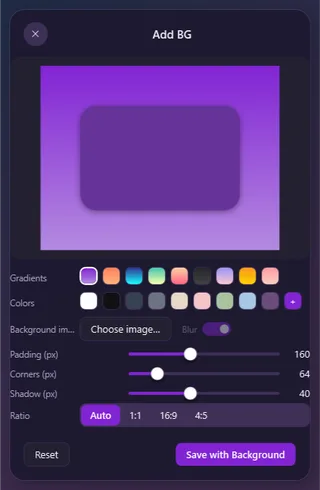
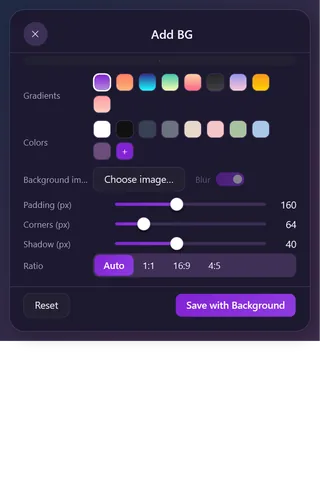
site(2.4.1): replace screenshots with 2.4.1 captures
Import the 2.4.1 self-test captures as the site's EN tool images (26 slugs x dark/light x full+320w), add the approved settings pair, rebuild the wheel posters from the Convert still, and drop every 2.4.0 capture or orphan (10 tool clips, 2 poster-360 variants, og-ar.png, 2 unreferenced icon PNGs). Wire the 21 placeholder tool cards to the new images and remove the dead Play-motion buttons left by the deleted 2.4.0 clips.

diff --git a/docs/site/index.html b/docs/site/index.html
@@ -297,8 +297,11 @@
 
         <div class="tools-grid" id="tools-grid">
           <article class="tool-card" id="tool-compress" data-tool="compress" data-reveal data-cat="files">
-            <div class="tool-media tool-media--abstract tool-media--files">
-              <div class="tool-pending"><span class="tool-pending__window" aria-hidden="true"><span class="tool-pending__bar"></span></span><p class="tool-pending__label"><span data-lang="en">Capture pending</span><span data-lang="ar" lang="ar">اللقطة قادمة</span></p><p class="tool-pending__note"><span data-lang="en">This window has no verified capture yet. The app's self-test renders it next; no mock-up is shown in the meantime.</span><span data-lang="ar" lang="ar">لا توجد لقطة موثّقة لهذه النافذة بعد. يلتقطها اختبار التطبيق الذاتي لاحقًا، ولا تُعرض أي صورة وهمية في الأثناء.</span></p></div>
+            <div class="tool-media">
+              <img class="tool-shot" src="assets/tools/compress-dark.webp" data-dark="assets/tools/compress-dark.webp" data-light="assets/tools/compress-light.webp" width="690" height="872" loading="lazy" decoding="async"
+                   alt="Compress window: an image file with the format row, target size and a quality slider, and the estimated output size."
+                   data-alt-en="Compress window: an image file with the format row, target size and a quality slider, and the estimated output size."
+                   data-alt-ar="نافذة الضغط: ملف صورة مع صف الصيغة والحجم المستهدف وشريط الجودة، والحجم التقديري للناتج.">
             </div>
             <div class="tool-body">
               <div class="tool-kicker"><span data-lang="en">Files</span><span data-lang="ar" lang="ar">الملفات</span><span class="tool-num">01</span></div>
@@ -310,8 +313,11 @@
           </article>
 
           <article class="tool-card" id="tool-metadata" data-tool="metadata" data-reveal data-cat="files">
-            <div class="tool-media tool-media--abstract tool-media--files">
-              <div class="tool-pending"><span class="tool-pending__window" aria-hidden="true"><span class="tool-pending__bar"></span></span><p class="tool-pending__label"><span data-lang="en">Capture pending</span><span data-lang="ar" lang="ar">اللقطة قادمة</span></p><p class="tool-pending__note"><span data-lang="en">This window has no verified capture yet. The app's self-test renders it next; no mock-up is shown in the meantime.</span><span data-lang="ar" lang="ar">لا توجد لقطة موثّقة لهذه النافذة بعد. يلتقطها اختبار التطبيق الذاتي لاحقًا، ولا تُعرض أي صورة وهمية في الأثناء.</span></p></div>
+            <div class="tool-media">
+              <img class="tool-shot" src="assets/tools/metadata-dark.webp" data-dark="assets/tools/metadata-dark.webp" data-light="assets/tools/metadata-light.webp" width="804" height="989" loading="lazy" decoding="async"
+                   alt="Edit metadata window: camera and location fields, each with its own remove button, above Remove All."
+                   data-alt-en="Edit metadata window: camera and location fields, each with its own remove button, above Remove All."
+                   data-alt-ar="نافذة تعديل البيانات الوصفية: حقلا الكاميرا والموقع، لكل منهما زر إزالة، فوق زر إزالة الكل.">
             </div>
             <div class="tool-body">
               <div class="tool-kicker"><span data-lang="en">Files</span><span data-lang="ar" lang="ar">الملفات</span><span class="tool-num">02</span></div>
@@ -323,8 +329,11 @@
           </article>
 
           <article class="tool-card" id="tool-qr" data-tool="qr" data-reveal data-cat="files">
-            <div class="tool-media tool-media--abstract tool-media--files">
-              <div class="tool-pending"><span class="tool-pending__window" aria-hidden="true"><span class="tool-pending__bar"></span></span><p class="tool-pending__label"><span data-lang="en">Capture pending</span><span data-lang="ar" lang="ar">اللقطة قادمة</span></p><p class="tool-pending__note"><span data-lang="en">This window has no verified capture yet. The app's self-test renders it next; no mock-up is shown in the meantime.</span><span data-lang="ar" lang="ar">لا توجد لقطة موثّقة لهذه النافذة بعد. يلتقطها اختبار التطبيق الذاتي لاحقًا، ولا تُعرض أي صورة وهمية في الأثناء.</span></p></div>
+            <div class="tool-media">
+              <img class="tool-shot" src="assets/tools/qr-dark.webp" data-dark="assets/tools/qr-dark.webp" data-light="assets/tools/qr-light.webp" width="804" height="761" loading="lazy" decoding="async"
+                   alt="Read QR code window: the opened image on a card, the result line under it and the Copy and Close action."
+                   data-alt-en="Read QR code window: the opened image on a card, the result line under it and the Copy and Close action."
+                   data-alt-ar="نافذة قراءة رمز QR: الصورة المفتوحة على بطاقة وسطر النتيجة تحتها وإجراء النسخ والإغلاق.">
             </div>
             <div class="tool-body">
               <div class="tool-kicker"><span data-lang="en">Files</span><span data-lang="ar" lang="ar">الملفات</span><span class="tool-num">03</span></div>
@@ -341,10 +350,6 @@
                    alt="Edit tool window: a photo preview above tabs and light, colour and grain sliders."
                    data-alt-en="Edit tool window: a photo preview above tabs and light, colour and grain sliders."
                    data-alt-ar="نافذة أداة التعديل: معاينة صورة فوق تبويبات وأشرطة للضوء واللون والحبيبات.">
-              <button type="button" class="tool-play" aria-describedby="tool-editphotos-title" data-clip-dark="assets/tools/editphotos-dark-clip.webp" data-clip-light="assets/tools/editphotos-light-clip.webp" data-poster-dark="assets/tools/editphotos-dark.webp" data-poster-light="assets/tools/editphotos-light.webp" aria-pressed="false" aria-label="Play motion" data-label-en="Play motion" data-label-ar="تشغيل الحركة">
-                <svg class="icon" width="14" height="14" aria-hidden="true"><use href="#i-play"/></svg>
-                <span class="tool-play__text" data-en="Motion" data-ar="حركة"></span>
-              </button>
             </div>
             <div class="tool-body">
               <div class="tool-kicker"><span data-lang="en">Photos</span><span data-lang="ar" lang="ar">الصور</span><span class="tool-num">04</span></div>
@@ -361,10 +366,6 @@
                    alt="Annotate tool window: a photo with drawn arrows and shapes, tool pills, colours and stroke sizes."
                    data-alt-en="Annotate tool window: a photo with drawn arrows and shapes, tool pills, colours and stroke sizes."
                    data-alt-ar="نافذة أداة التعليقات: صورة بأسهم وأشكال مرسومة، وشرائح أدوات، وألوان وسماكات.">
-              <button type="button" class="tool-play" aria-describedby="tool-annotate-title" data-clip-dark="assets/tools/annotate-dark-clip.webp" data-clip-light="assets/tools/annotate-light-clip.webp" data-poster-dark="assets/tools/annotate-dark.webp" data-poster-light="assets/tools/annotate-light.webp" aria-pressed="false" aria-label="Play motion" data-label-en="Play motion" data-label-ar="تشغيل الحركة">
-                <svg class="icon" width="14" height="14" aria-hidden="true"><use href="#i-play"/></svg>
-                <span class="tool-play__text" data-en="Motion" data-ar="حركة"></span>
-              </button>
             </div>
             <div class="tool-body">
               <div class="tool-kicker"><span data-lang="en">Photos</span><span data-lang="ar" lang="ar">الصور</span><span class="tool-num">05</span></div>
@@ -381,10 +382,6 @@
                    alt="Add BG tool window: a photo on a gradient background with padding, corners, shadow and ratio controls."
                    data-alt-en="Add BG tool window: a photo on a gradient background with padding, corners, shadow and ratio controls."
                    data-alt-ar="نافذة أداة الخلفية: صورة على خلفية متدرّجة مع حشوة وزوايا وظل وعناصر نسب.">
-              <button type="button" class="tool-play" aria-describedby="tool-addbackground-title" data-clip-dark="assets/tools/addbackground-dark-clip.webp" data-clip-light="assets/tools/addbackground-light-clip.webp" data-poster-dark="assets/tools/addbackground-dark.webp" data-poster-light="assets/tools/addbackground-light.webp" aria-pressed="false" aria-label="Play motion" data-label-en="Play motion" data-label-ar="تشغيل الحركة">
-                <svg class="icon" width="14" height="14" aria-hidden="true"><use href="#i-play"/></svg>
-                <span class="tool-play__text" data-en="Motion" data-ar="حركة"></span>
-              </button>
             </div>
             <div class="tool-body">
               <div class="tool-kicker"><span data-lang="en">Photos</span><span data-lang="ar" lang="ar">الصور</span><span class="tool-num">06</span></div>
@@ -401,10 +398,6 @@
                    alt="Crop tool window: a crop rectangle over a photo, ratio chips and width and height boxes."
                    data-alt-en="Crop tool window: a crop rectangle over a photo, ratio chips and width and height boxes."
                    data-alt-ar="نافذة أداة قصّ الصورة: مستطيل قصّ فوق صورة، وشرائح نسب، ومربعا العرض والارتفاع.">
-              <button type="button" class="tool-play" aria-describedby="tool-crop-title" data-clip-dark="assets/tools/crop-dark-clip.webp" data-clip-light="assets/tools/crop-light-clip.webp" data-poster-dark="assets/tools/crop-dark.webp" data-poster-light="assets/tools/crop-light.webp" aria-pressed="false" aria-label="Play motion" data-label-en="Play motion" data-label-ar="تشغيل الحركة">
-                <svg class="icon" width="14" height="14" aria-hidden="true"><use href="#i-play"/></svg>
-                <span class="tool-play__text" data-en="Motion" data-ar="حركة"></span>
-              </button>
             </div>
             <div class="tool-body">
               <div class="tool-kicker"><span data-lang="en">Photos</span><span data-lang="ar" lang="ar">الصور</span><span class="tool-num">07</span></div>
@@ -421,10 +414,6 @@
                    alt="Redact tool window: a photo with solid redaction boxes and the solid, blur and pixelate mode chips."
                    data-alt-en="Redact tool window: a photo with solid redaction boxes and the solid, blur and pixelate mode chips."
                    data-alt-ar="نافذة أداة الحجب: صورة بمربعات حجب صلبة وشرائح الأنماط: صلب وتمويه وبكسلة.">
-              <button type="button" class="tool-play" aria-describedby="tool-redact-title" data-clip-dark="assets/tools/redact-dark-clip.webp" data-clip-light="assets/tools/redact-light-clip.webp" data-poster-dark="assets/tools/redact-dark.webp" data-poster-light="assets/tools/redact-light.webp" aria-pressed="false" aria-label="Play motion" data-label-en="Play motion" data-label-ar="تشغيل الحركة">
-                <svg class="icon" width="14" height="14" aria-hidden="true"><use href="#i-play"/></svg>
-                <span class="tool-play__text" data-en="Motion" data-ar="حركة"></span>
-              </button>
             </div>
             <div class="tool-body">
               <div class="tool-kicker"><span data-lang="en">Photos</span><span data-lang="ar" lang="ar">الصور</span><span class="tool-num">08</span></div>
@@ -436,8 +425,11 @@
           </article>
 
           <article class="tool-card" id="tool-collage" data-tool="collage" data-reveal data-cat="photos">
-            <div class="tool-media tool-media--abstract tool-media--photos">
-              <div class="tool-pending"><span class="tool-pending__window" aria-hidden="true"><span class="tool-pending__bar"></span></span><p class="tool-pending__label"><span data-lang="en">Capture pending</span><span data-lang="ar" lang="ar">اللقطة قادمة</span></p><p class="tool-pending__note"><span data-lang="en">This window has no verified capture yet. The app's self-test renders it next; no mock-up is shown in the meantime.</span><span data-lang="ar" lang="ar">لا توجد لقطة موثّقة لهذه النافذة بعد. يلتقطها اختبار التطبيق الذاتي لاحقًا، ولا تُعرض أي صورة وهمية في الأثناء.</span></p></div>
+            <div class="tool-media">
+              <img class="tool-shot" src="assets/tools/collage-dark.webp" data-dark="assets/tools/collage-dark.webp" data-light="assets/tools/collage-light.webp" width="575" height="971" loading="lazy" decoding="async"
+                   alt="Collage window: two photos in a layout preview beside layout, cells, gap, radius and background controls."
+                   data-alt-en="Collage window: two photos in a layout preview beside layout, cells, gap, radius and background controls."
+                   data-alt-ar="نافذة التجميع: صورتان في معاينة تخطيط إلى جانب عناصر التخطيط والخلايا والفراغ والزوايا والخلفية.">
             </div>
             <div class="tool-body">
               <div class="tool-kicker"><span data-lang="en">Photos</span><span data-lang="ar" lang="ar">الصور</span><span class="tool-num">09</span></div>
@@ -449,8 +441,11 @@
           </article>
 
           <article class="tool-card" id="tool-videotrim" data-tool="videotrim" data-reveal data-cat="video">
-            <div class="tool-media tool-media--abstract tool-media--video">
-              <div class="tool-pending"><span class="tool-pending__window" aria-hidden="true"><span class="tool-pending__bar"></span></span><p class="tool-pending__label"><span data-lang="en">Capture pending</span><span data-lang="ar" lang="ar">اللقطة قادمة</span></p><p class="tool-pending__note"><span data-lang="en">This window has no verified capture yet. The app's self-test renders it next; no mock-up is shown in the meantime.</span><span data-lang="ar" lang="ar">لا توجد لقطة موثّقة لهذه النافذة بعد. يلتقطها اختبار التطبيق الذاتي لاحقًا، ولا تُعرض أي صورة وهمية في الأثناء.</span></p></div>
+            <div class="tool-media">
+              <img class="tool-shot" src="assets/tools/videotrim-dark.webp" data-dark="assets/tools/videotrim-dark.webp" data-light="assets/tools/videotrim-light.webp" width="1080" height="601" loading="lazy" decoding="async"
+                   alt="Trim video window: a timeline with start and end markers below the video preview and its filename."
+                   data-alt-en="Trim video window: a timeline with start and end markers below the video preview and its filename."
+                   data-alt-ar="نافذة اقتصاص الفيديو: خط زمني بعلامتي البداية والنهاية تحت معاينة الفيديو واسم الملف.">
             </div>
             <div class="tool-body">
               <div class="tool-kicker"><span data-lang="en">Video</span><span data-lang="ar" lang="ar">الفيديو</span><span class="tool-num">10</span></div>
@@ -462,8 +457,11 @@
           </article>
 
           <article class="tool-card" id="tool-videocrop" data-tool="videocrop" data-reveal data-cat="video">
-            <div class="tool-media tool-media--abstract tool-media--video">
-              <div class="tool-pending"><span class="tool-pending__window" aria-hidden="true"><span class="tool-pending__bar"></span></span><p class="tool-pending__label"><span data-lang="en">Capture pending</span><span data-lang="ar" lang="ar">اللقطة قادمة</span></p><p class="tool-pending__note"><span data-lang="en">This window has no verified capture yet. The app's self-test renders it next; no mock-up is shown in the meantime.</span><span data-lang="ar" lang="ar">لا توجد لقطة موثّقة لهذه النافذة بعد. يلتقطها اختبار التطبيق الذاتي لاحقًا، ولا تُعرض أي صورة وهمية في الأثناء.</span></p></div>
+            <div class="tool-media">
+              <img class="tool-shot" src="assets/tools/videocrop-dark.webp" data-dark="assets/tools/videocrop-dark.webp" data-light="assets/tools/videocrop-light.webp" width="1080" height="576" loading="lazy" decoding="async"
+                   alt="Crop video window: a crop rectangle over the video preview with ratio chips and output size boxes."
+                   data-alt-en="Crop video window: a crop rectangle over the video preview with ratio chips and output size boxes."
+                   data-alt-ar="نافذة قصّ الفيديو: مستطيل قصّ فوق معاينة الفيديو مع شرائح النسب ومربعات حجم الإخراج.">
             </div>
             <div class="tool-body">
               <div class="tool-kicker"><span data-lang="en">Video</span><span data-lang="ar" lang="ar">الفيديو</span><span class="tool-num">11</span></div>
@@ -475,8 +473,11 @@
           </article>
 
           <article class="tool-card" id="tool-videospeed" data-tool="videospeed" data-reveal data-cat="video">
-            <div class="tool-media tool-media--abstract tool-media--video">
-              <div class="tool-pending"><span class="tool-pending__window" aria-hidden="true"><span class="tool-pending__bar"></span></span><p class="tool-pending__label"><span data-lang="en">Capture pending</span><span data-lang="ar" lang="ar">اللقطة قادمة</span></p><p class="tool-pending__note"><span data-lang="en">This window has no verified capture yet. The app's self-test renders it next; no mock-up is shown in the meantime.</span><span data-lang="ar" lang="ar">لا توجد لقطة موثّقة لهذه النافذة بعد. يلتقطها اختبار التطبيق الذاتي لاحقًا، ولا تُعرض أي صورة وهمية في الأثناء.</span></p></div>
+            <div class="tool-media">
+              <img class="tool-shot" src="assets/tools/videospeed-dark.webp" data-dark="assets/tools/videospeed-dark.webp" data-light="assets/tools/videospeed-light.webp" width="1080" height="579" loading="lazy" decoding="async"
+                   alt="Change speed window: the video preview above a speed slider and the preset chips from 0.25× to 4×."
+                   data-alt-en="Change speed window: the video preview above a speed slider and the preset chips from 0.25× to 4×."
+                   data-alt-ar="نافذة تغيير السرعة: معاينة الفيديو فوق شريط السرعة وشرائح القيم من 0.25× إلى 4×.">
             </div>
             <div class="tool-body">
               <div class="tool-kicker"><span data-lang="en">Video</span><span data-lang="ar" lang="ar">الفيديو</span><span class="tool-num">12</span></div>
@@ -488,8 +489,11 @@
           </article>
 
           <article class="tool-card" id="tool-videojoin" data-tool="videojoin" data-reveal data-cat="video">
-            <div class="tool-media tool-media--abstract tool-media--video">
-              <div class="tool-pending"><span class="tool-pending__window" aria-hidden="true"><span class="tool-pending__bar"></span></span><p class="tool-pending__label"><span data-lang="en">Capture pending</span><span data-lang="ar" lang="ar">اللقطة قادمة</span></p><p class="tool-pending__note"><span data-lang="en">This window has no verified capture yet. The app's self-test renders it next; no mock-up is shown in the meantime.</span><span data-lang="ar" lang="ar">لا توجد لقطة موثّقة لهذه النافذة بعد. يلتقطها اختبار التطبيق الذاتي لاحقًا، ولا تُعرض أي صورة وهمية في الأثناء.</span></p></div>
+            <div class="tool-media">
+              <img class="tool-shot" src="assets/tools/videojoin-dark.webp" data-dark="assets/tools/videojoin-dark.webp" data-light="assets/tools/videojoin-light.webp" width="1080" height="478" loading="lazy" decoding="async"
+                   alt="Join videos window: two clip cards in a reorderable row above the Add more videos button."
+                   data-alt-en="Join videos window: two clip cards in a reorderable row above the Add more videos button."
+                   data-alt-ar="نافذة دمج الفيديو: بطاقتا مقطعين في صف قابل لإعادة الترتيب فوق زر إضافة مقاطع أخرى.">
             </div>
             <div class="tool-body">
               <div class="tool-kicker"><span data-lang="en">Video</span><span data-lang="ar" lang="ar">الفيديو</span><span class="tool-num">13</span></div>
@@ -501,8 +505,11 @@
           </article>
 
           <article class="tool-card" id="tool-videoframes" data-tool="videoframes" data-reveal data-cat="video">
-            <div class="tool-media tool-media--abstract tool-media--video">
-              <div class="tool-pending"><span class="tool-pending__window" aria-hidden="true"><span class="tool-pending__bar"></span></span><p class="tool-pending__label"><span data-lang="en">Capture pending</span><span data-lang="ar" lang="ar">اللقطة قادمة</span></p><p class="tool-pending__note"><span data-lang="en">This window has no verified capture yet. The app's self-test renders it next; no mock-up is shown in the meantime.</span><span data-lang="ar" lang="ar">لا توجد لقطة موثّقة لهذه النافذة بعد. يلتقطها اختبار التطبيق الذاتي لاحقًا، ولا تُعرض أي صورة وهمية في الأثناء.</span></p></div>
+            <div class="tool-media">
+              <img class="tool-shot" src="assets/tools/videoframes-dark.webp" data-dark="assets/tools/videoframes-dark.webp" data-light="assets/tools/videoframes-light.webp" width="1080" height="475" loading="lazy" decoding="async"
+                   alt="Save frames window: the video preview with a Capture button and a frames-per-second field."
+                   data-alt-en="Save frames window: the video preview with a Capture button and a frames-per-second field."
+                   data-alt-ar="نافذة حفظ الإطارات: معاينة الفيديو مع زر الالتقاط وحقل الإطارات في الثانية.">
             </div>
             <div class="tool-body">
               <div class="tool-kicker"><span data-lang="en">Video</span><span data-lang="ar" lang="ar">الفيديو</span><span class="tool-num">14</span></div>
@@ -514,8 +521,11 @@
           </article>
 
           <article class="tool-card" id="tool-videosplit" data-tool="videosplit" data-reveal data-cat="video">
-            <div class="tool-media tool-media--abstract tool-media--video">
-              <div class="tool-pending"><span class="tool-pending__window" aria-hidden="true"><span class="tool-pending__bar"></span></span><p class="tool-pending__label"><span data-lang="en">Capture pending</span><span data-lang="ar" lang="ar">اللقطة قادمة</span></p><p class="tool-pending__note"><span data-lang="en">This window has no verified capture yet. The app's self-test renders it next; no mock-up is shown in the meantime.</span><span data-lang="ar" lang="ar">لا توجد لقطة موثّقة لهذه النافذة بعد. يلتقطها اختبار التطبيق الذاتي لاحقًا، ولا تُعرض أي صورة وهمية في الأثناء.</span></p></div>
+            <div class="tool-media">
+              <img class="tool-shot" src="assets/tools/videosplit-dark.webp" data-dark="assets/tools/videosplit-dark.webp" data-light="assets/tools/videosplit-light.webp" width="1080" height="429" loading="lazy" decoding="async"
+                   alt="Split video window: a timeline with the equal-parts option and the part count fields."
+                   data-alt-en="Split video window: a timeline with the equal-parts option and the part count fields."
+                   data-alt-ar="نافذة تقسيم الفيديو: خط زمني مع خيار الأجزاء المتساوية وحقلي عدد الأجزاء.">
             </div>
             <div class="tool-body">
               <div class="tool-kicker"><span data-lang="en">Video</span><span data-lang="ar" lang="ar">الفيديو</span><span class="tool-num">15</span></div>
@@ -527,8 +537,11 @@
           </article>
 
           <article class="tool-card" id="tool-videoredact" data-tool="videoredact" data-reveal data-cat="video">
-            <div class="tool-media tool-media--abstract tool-media--video">
-              <div class="tool-pending"><span class="tool-pending__window" aria-hidden="true"><span class="tool-pending__bar"></span></span><p class="tool-pending__label"><span data-lang="en">Capture pending</span><span data-lang="ar" lang="ar">اللقطة قادمة</span></p><p class="tool-pending__note"><span data-lang="en">This window has no verified capture yet. The app's self-test renders it next; no mock-up is shown in the meantime.</span><span data-lang="ar" lang="ar">لا توجد لقطة موثّقة لهذه النافذة بعد. يلتقطها اختبار التطبيق الذاتي لاحقًا، ولا تُعرض أي صورة وهمية في الأثناء.</span></p></div>
+            <div class="tool-media">
+              <img class="tool-shot" src="assets/tools/videoredact-dark.webp" data-dark="assets/tools/videoredact-dark.webp" data-light="assets/tools/videoredact-light.webp" width="1080" height="502" loading="lazy" decoding="async"
+                   alt="Redact video window: a redaction box over the preview above the add-box and blur controls."
+                   data-alt-en="Redact video window: a redaction box over the preview above the add-box and blur controls."
+                   data-alt-ar="نافذة حجب الفيديو: مربع حجب فوق المعاينة وفوقه عناصر إضافة المربع والتمويه.">
             </div>
             <div class="tool-body">
               <div class="tool-kicker"><span data-lang="en">Video</span><span data-lang="ar" lang="ar">الفيديو</span><span class="tool-num">16</span></div>
@@ -540,8 +553,11 @@
           </article>
 
           <article class="tool-card" id="tool-audiotrim" data-tool="audiotrim" data-reveal data-cat="audio">
-            <div class="tool-media tool-media--abstract tool-media--audio">
-              <div class="tool-pending"><span class="tool-pending__window" aria-hidden="true"><span class="tool-pending__bar"></span></span><p class="tool-pending__label"><span data-lang="en">Capture pending</span><span data-lang="ar" lang="ar">اللقطة قادمة</span></p><p class="tool-pending__note"><span data-lang="en">This window has no verified capture yet. The app's self-test renders it next; no mock-up is shown in the meantime.</span><span data-lang="ar" lang="ar">لا توجد لقطة موثّقة لهذه النافذة بعد. يلتقطها اختبار التطبيق الذاتي لاحقًا، ولا تُعرض أي صورة وهمية في الأثناء.</span></p></div>
+            <div class="tool-media">
+              <img class="tool-shot" src="assets/tools/audiotrim-dark.webp" data-dark="assets/tools/audiotrim-dark.webp" data-light="assets/tools/audiotrim-light.webp" width="840" height="649" loading="lazy" decoding="async"
+                   alt="Trim audio window: start and end time boxes above the trim-silent option and the apply buttons."
+                   data-alt-en="Trim audio window: start and end time boxes above the trim-silent option and the apply buttons."
+                   data-alt-ar="نافذة اقتصاص الصوت: حقلا وقت البداية والنهاية فوق خيار اقتصاص الصمت وأزرار التطبيق.">
             </div>
             <div class="tool-body">
               <div class="tool-kicker"><span data-lang="en">Audio</span><span data-lang="ar" lang="ar">الصوت</span><span class="tool-num">17</span></div>
@@ -553,8 +569,11 @@
           </article>
 
           <article class="tool-card" id="tool-audiobleep" data-tool="audiobleep" data-reveal data-cat="audio">
-            <div class="tool-media tool-media--abstract tool-media--audio">
-              <div class="tool-pending"><span class="tool-pending__window" aria-hidden="true"><span class="tool-pending__bar"></span></span><p class="tool-pending__label"><span data-lang="en">Capture pending</span><span data-lang="ar" lang="ar">اللقطة قادمة</span></p><p class="tool-pending__note"><span data-lang="en">This window has no verified capture yet. The app's self-test renders it next; no mock-up is shown in the meantime.</span><span data-lang="ar" lang="ar">لا توجد لقطة موثّقة لهذه النافذة بعد. يلتقطها اختبار التطبيق الذاتي لاحقًا، ولا تُعرض أي صورة وهمية في الأثناء.</span></p></div>
+            <div class="tool-media">
+              <img class="tool-shot" src="assets/tools/audiobleep-dark.webp" data-dark="assets/tools/audiobleep-dark.webp" data-light="assets/tools/audiobleep-light.webp" width="894" height="793" loading="lazy" decoding="async"
+                   alt="Bleep audio window: mute and beep mode chips above the start and end fields and the Apply button."
+                   data-alt-en="Bleep audio window: mute and beep mode chips above the start and end fields and the Apply button."
+                   data-alt-ar="نافذة الصافرة الصوتية: شرائح نمطي الكتم والصفير فوق حقلي البداية والنهاية وزر التطبيق.">
             </div>
             <div class="tool-body">
               <div class="tool-kicker"><span data-lang="en">Audio</span><span data-lang="ar" lang="ar">الصوت</span><span class="tool-num">18</span></div>
@@ -566,8 +585,11 @@
           </article>
 
           <article class="tool-card" id="tool-audiochannels" data-tool="audiochannels" data-reveal data-cat="audio">
-            <div class="tool-media tool-media--abstract tool-media--audio">
-              <div class="tool-pending"><span class="tool-pending__window" aria-hidden="true"><span class="tool-pending__bar"></span></span><p class="tool-pending__label"><span data-lang="en">Capture pending</span><span data-lang="ar" lang="ar">اللقطة قادمة</span></p><p class="tool-pending__note"><span data-lang="en">This window has no verified capture yet. The app's self-test renders it next; no mock-up is shown in the meantime.</span><span data-lang="ar" lang="ar">لا توجد لقطة موثّقة لهذه النافذة بعد. يلتقطها اختبار التطبيق الذاتي لاحقًا، ولا تُعرض أي صورة وهمية في الأثناء.</span></p></div>
+            <div class="tool-media">
+              <img class="tool-shot" src="assets/tools/audiochannels-dark.webp" data-dark="assets/tools/audiochannels-dark.webp" data-light="assets/tools/audiochannels-light.webp" width="774" height="595" loading="lazy" decoding="async"
+                   alt="Audio channels window: mode and polarity chips with the left and right level sliders."
+                   data-alt-en="Audio channels window: mode and polarity chips with the left and right level sliders."
+                   data-alt-ar="نافذة قنوات الصوت: شرائح النمط والقطبية مع شرائطي مستويي اليسار واليمين.">
             </div>
             <div class="tool-body">
               <div class="tool-kicker"><span data-lang="en">Audio</span><span data-lang="ar" lang="ar">الصوت</span><span class="tool-num">19</span></div>
@@ -579,8 +601,11 @@
           </article>
 
           <article class="tool-card" id="tool-audionormalize" data-tool="audionormalize" data-reveal data-cat="audio">
-            <div class="tool-media tool-media--abstract tool-media--audio">
-              <div class="tool-pending"><span class="tool-pending__window" aria-hidden="true"><span class="tool-pending__bar"></span></span><p class="tool-pending__label"><span data-lang="en">Capture pending</span><span data-lang="ar" lang="ar">اللقطة قادمة</span></p><p class="tool-pending__note"><span data-lang="en">This window has no verified capture yet. The app's self-test renders it next; no mock-up is shown in the meantime.</span><span data-lang="ar" lang="ar">لا توجد لقطة موثّقة لهذه النافذة بعد. يلتقطها اختبار التطبيق الذاتي لاحقًا، ولا تُعرض أي صورة وهمية في الأثناء.</span></p></div>
+            <div class="tool-media">
+              <img class="tool-shot" src="assets/tools/audionormalize-dark.webp" data-dark="assets/tools/audionormalize-dark.webp" data-light="assets/tools/audionormalize-light.webp" width="840" height="840" loading="lazy" decoding="async"
+                   alt="Normalize audio window: target loudness, true peak and loudness range numbers above the measured input and output values."
+                   data-alt-en="Normalize audio window: target loudness, true peak and loudness range numbers above the measured input and output values."
+                   data-alt-ar="نافذة تطبيع الصوت: أرقام الجهارة المستهدفة والذروة الحقيقية ونطاق الجهارة فوق قيم الدخل والخرج المقيسة.">
             </div>
             <div class="tool-body">
               <div class="tool-kicker"><span data-lang="en">Audio</span><span data-lang="ar" lang="ar">الصوت</span><span class="tool-num">20</span></div>
@@ -592,8 +617,11 @@
           </article>
 
           <article class="tool-card" id="tool-audiovisualizer" data-tool="audiovisualizer" data-reveal data-cat="audio">
-            <div class="tool-media tool-media--abstract tool-media--audio">
-              <div class="tool-pending"><span class="tool-pending__window" aria-hidden="true"><span class="tool-pending__bar"></span></span><p class="tool-pending__label"><span data-lang="en">Capture pending</span><span data-lang="ar" lang="ar">اللقطة قادمة</span></p><p class="tool-pending__note"><span data-lang="en">This window has no verified capture yet. The app's self-test renders it next; no mock-up is shown in the meantime.</span><span data-lang="ar" lang="ar">لا توجد لقطة موثّقة لهذه النافذة بعد. يلتقطها اختبار التطبيق الذاتي لاحقًا، ولا تُعرض أي صورة وهمية في الأثناء.</span></p></div>
+            <div class="tool-media">
+              <img class="tool-shot" src="assets/tools/audiovisualizer-dark.webp" data-dark="assets/tools/audiovisualizer-dark.webp" data-light="assets/tools/audiovisualizer-light.webp" width="780" height="487" loading="lazy" decoding="async"
+                   alt="Audio visualizer window: frame, style and background controls with a sample visualizer preview."
+                   data-alt-en="Audio visualizer window: frame, style and background controls with a sample visualizer preview."
+                   data-alt-ar="نافذة المرئي الصوتي: عناصر الإطار والنمط والخلفية مع معاينة مرئي نموذجية.">
             </div>
             <div class="tool-body">
               <div class="tool-kicker"><span data-lang="en">Audio</span><span data-lang="ar" lang="ar">الصوت</span><span class="tool-num">21</span></div>
@@ -605,8 +633,11 @@
           </article>
 
           <article class="tool-card" id="tool-pdfmerge" data-tool="pdfmerge" data-reveal data-cat="pdf">
-            <div class="tool-media tool-media--abstract tool-media--pdf">
-              <div class="tool-pending"><span class="tool-pending__window" aria-hidden="true"><span class="tool-pending__bar"></span></span><p class="tool-pending__label"><span data-lang="en">Capture pending</span><span data-lang="ar" lang="ar">اللقطة قادمة</span></p><p class="tool-pending__note"><span data-lang="en">This window has no verified capture yet. The app's self-test renders it next; no mock-up is shown in the meantime.</span><span data-lang="ar" lang="ar">لا توجد لقطة موثّقة لهذه النافذة بعد. يلتقطها اختبار التطبيق الذاتي لاحقًا، ولا تُعرض أي صورة وهمية في الأثناء.</span></p></div>
+            <div class="tool-media">
+              <img class="tool-shot" src="assets/tools/pdfmerge-dark.webp" data-dark="assets/tools/pdfmerge-dark.webp" data-light="assets/tools/pdfmerge-light.webp" width="930" height="501" loading="lazy" decoding="async"
+                   alt="Merge to PDF window: the document order list with two files and reorder and remove buttons."
+                   data-alt-en="Merge to PDF window: the document order list with two files and reorder and remove buttons."
+                   data-alt-ar="نافذة الدمج إلى PDF: قائمة ترتيب المستندات بملفين مع أزرار إعادة الترتيب والإزالة.">
             </div>
             <div class="tool-body">
               <div class="tool-kicker"><span data-lang="en">PDF</span><span data-lang="ar" lang="ar">PDF</span><span class="tool-num">22</span></div>
@@ -618,8 +649,11 @@
           </article>
 
           <article class="tool-card" id="tool-pdforganize" data-tool="pdforganize" data-reveal data-cat="pdf">
-            <div class="tool-media tool-media--abstract tool-media--pdf">
-              <div class="tool-pending"><span class="tool-pending__window" aria-hidden="true"><span class="tool-pending__bar"></span></span><p class="tool-pending__label"><span data-lang="en">Capture pending</span><span data-lang="ar" lang="ar">اللقطة قادمة</span></p><p class="tool-pending__note"><span data-lang="en">This window has no verified capture yet. The app's self-test renders it next; no mock-up is shown in the meantime.</span><span data-lang="ar" lang="ar">لا توجد لقطة موثّقة لهذه النافذة بعد. يلتقطها اختبار التطبيق الذاتي لاحقًا، ولا تُعرض أي صورة وهمية في الأثناء.</span></p></div>
+            <div class="tool-media">
+              <img class="tool-shot" src="assets/tools/pdforganize-dark.webp" data-dark="assets/tools/pdforganize-dark.webp" data-light="assets/tools/pdforganize-light.webp" width="930" height="619" loading="lazy" decoding="async"
+                   alt="Organize pages window: a page thumbnail grid with rotate, delete and reset order controls."
+                   data-alt-en="Organize pages window: a page thumbnail grid with rotate, delete and reset order controls."
+                   data-alt-ar="نافذة تنظيم الصفحات: شبكة مصغّرات الصفحات مع عناصر التدوير والحذف وإعادة الترتيب.">
             </div>
             <div class="tool-body">
               <div class="tool-kicker"><span data-lang="en">PDF</span><span data-lang="ar" lang="ar">PDF</span><span class="tool-num">23</span></div>
@@ -631,8 +665,11 @@
           </article>
 
           <article class="tool-card" id="tool-protect" data-tool="protect" data-reveal data-cat="protect">
-            <div class="tool-media tool-media--abstract tool-media--protect">
-              <div class="tool-pending"><span class="tool-pending__window" aria-hidden="true"><span class="tool-pending__bar"></span></span><p class="tool-pending__label"><span data-lang="en">Capture pending</span><span data-lang="ar" lang="ar">اللقطة قادمة</span></p><p class="tool-pending__note"><span data-lang="en">This window has no verified capture yet. The app's self-test renders it next; no mock-up is shown in the meantime.</span><span data-lang="ar" lang="ar">لا توجد لقطة موثّقة لهذه النافذة بعد. يلتقطها اختبار التطبيق الذاتي لاحقًا، ولا تُعرض أي صورة وهمية في الأثناء.</span></p></div>
+            <div class="tool-media">
+              <img class="tool-shot" src="assets/tools/protect-dark.webp" data-dark="assets/tools/protect-dark.webp" data-light="assets/tools/protect-light.webp" width="720" height="691" loading="lazy" decoding="async"
+                   alt="Password protection window: a password field, a confirm field and the strength meter."
+                   data-alt-en="Password protection window: a password field, a confirm field and the strength meter."
+                   data-alt-ar="نافذة الحماية بكلمة مرور: حقل كلمة المرور وحقل التأكيد ومقياس القوة.">
             </div>
             <div class="tool-body">
               <div class="tool-kicker"><span data-lang="en">Protect</span><span data-lang="ar" lang="ar">الحماية</span><span class="tool-num">24</span></div>
@@ -644,8 +681,11 @@
           </article>
 
           <article class="tool-card" id="tool-unlock" data-tool="unlock" data-reveal data-cat="protect">
-            <div class="tool-media tool-media--abstract tool-media--protect">
-              <div class="tool-pending"><span class="tool-pending__window" aria-hidden="true"><span class="tool-pending__bar"></span></span><p class="tool-pending__label"><span data-lang="en">Capture pending</span><span data-lang="ar" lang="ar">اللقطة قادمة</span></p><p class="tool-pending__note"><span data-lang="en">This window has no verified capture yet. The app's self-test renders it next; no mock-up is shown in the meantime.</span><span data-lang="ar" lang="ar">لا توجد لقطة موثّقة لهذه النافذة بعد. يلتقطها اختبار التطبيق الذاتي لاحقًا، ولا تُعرض أي صورة وهمية في الأثناء.</span></p></div>
+            <div class="tool-media">
+              <img class="tool-shot" src="assets/tools/unlock-dark.webp" data-dark="assets/tools/unlock-dark.webp" data-light="assets/tools/unlock-light.webp" width="720" height="448" loading="lazy" decoding="async"
+                   alt="Remove password window: a password field above the unlock button and the original-file note."
+                   data-alt-en="Remove password window: a password field above the unlock button and the original-file note."
+                   data-alt-ar="نافذة إزالة كلمة المرور: حقل كلمة المرور فوق زر الفتح وملاحظة الملف الأصلي.">
             </div>
             <div class="tool-body">
               <div class="tool-kicker"><span data-lang="en">Protect</span><span data-lang="ar" lang="ar">الحماية</span><span class="tool-num">25</span></div>
@@ -657,8 +697,11 @@
           </article>
 
           <article class="tool-card" id="tool-lock" data-tool="lock" data-reveal data-cat="protect">
-            <div class="tool-media tool-media--abstract tool-media--protect">
-              <div class="tool-pending"><span class="tool-pending__window" aria-hidden="true"><span class="tool-pending__bar"></span></span><p class="tool-pending__label"><span data-lang="en">Capture pending</span><span data-lang="ar" lang="ar">اللقطة قادمة</span></p><p class="tool-pending__note"><span data-lang="en">This window has no verified capture yet. The app's self-test renders it next; no mock-up is shown in the meantime.</span><span data-lang="ar" lang="ar">لا توجد لقطة موثّقة لهذه النافذة بعد. يلتقطها اختبار التطبيق الذاتي لاحقًا، ولا تُعرض أي صورة وهمية في الأثناء.</span></p></div>
+            <div class="tool-media">
+              <img class="tool-shot" src="assets/tools/lock-dark.webp" data-dark="assets/tools/lock-dark.webp" data-light="assets/tools/lock-light.webp" width="720" height="829" loading="lazy" decoding="async"
+                   alt="Lock window: a file and a folder with the purple padlock badge, a passphrase field and a confirm field."
+                   data-alt-en="Lock window: a file and a folder with the purple padlock badge, a passphrase field and a confirm field."
+                   data-alt-ar="نافذة القفل: ملف ومجلد بشارة القفل البنفسجية وحقل عبارة المرور وحقل التأكيد.">
             </div>
             <div class="tool-body">
               <div class="tool-kicker"><span data-lang="en">Protect</span><span data-lang="ar" lang="ar">الحماية</span><span class="tool-num">26</span></div>
